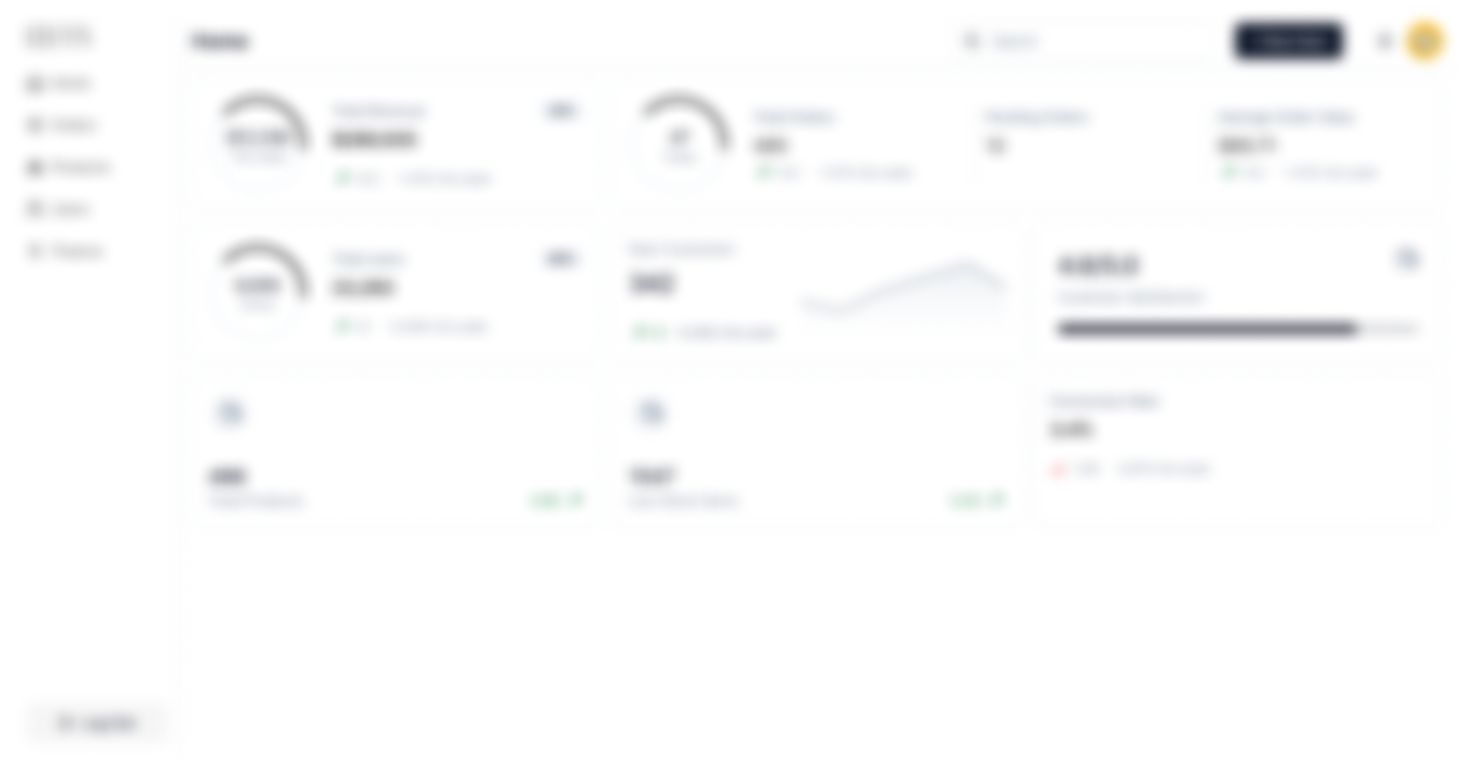
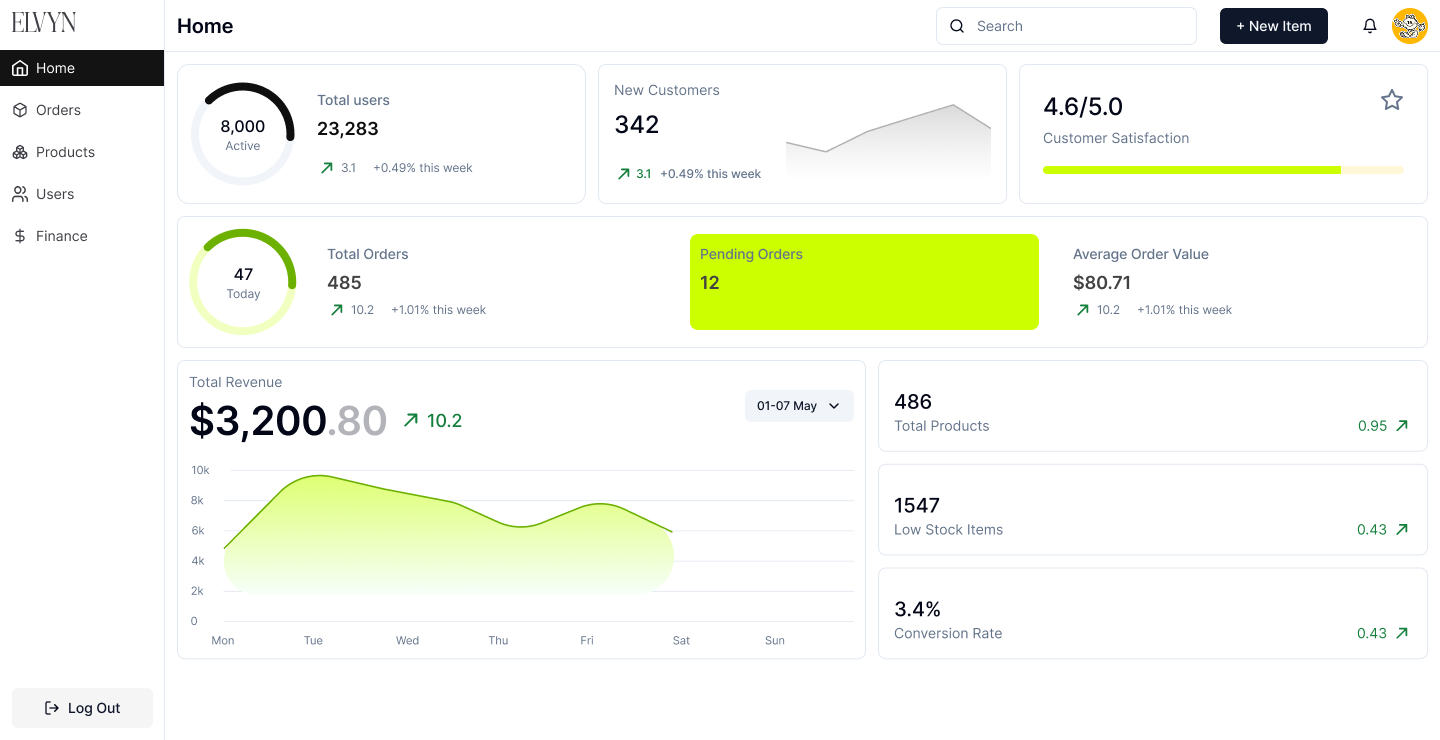
updated

diff --git a/src/components/SampleWork.tsx b/src/components/SampleWork.tsx
@@ -51,7 +51,14 @@ const SAMPLE: Project[] = [
     title: "Elvyn Dashboard",
     desc: "Ongoing...",
     category: "samples",
-    images: ["/images/Elvyn_Dashboard.png"],
+    images: ["/images/Elvyn_Dashboard.png", "/images/Elvyn_Dashboard2.png"],
+  },
+  {
+    id: "p6",
+    title: "Health Connect",
+    desc: "Ongoing...",
+    category: "samples",
+    images: ["/images/HealthCOnnect.png"],
   },
 ];
 
